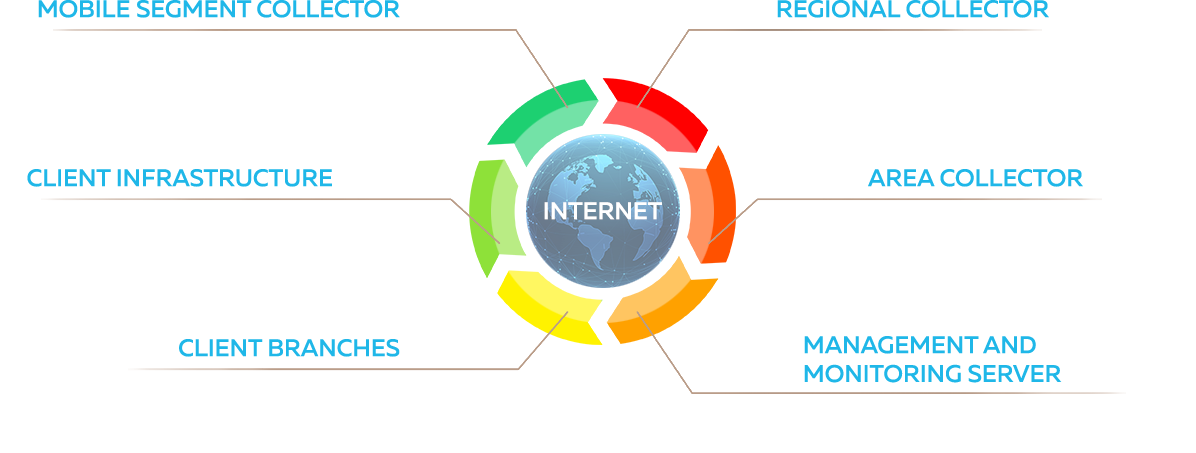
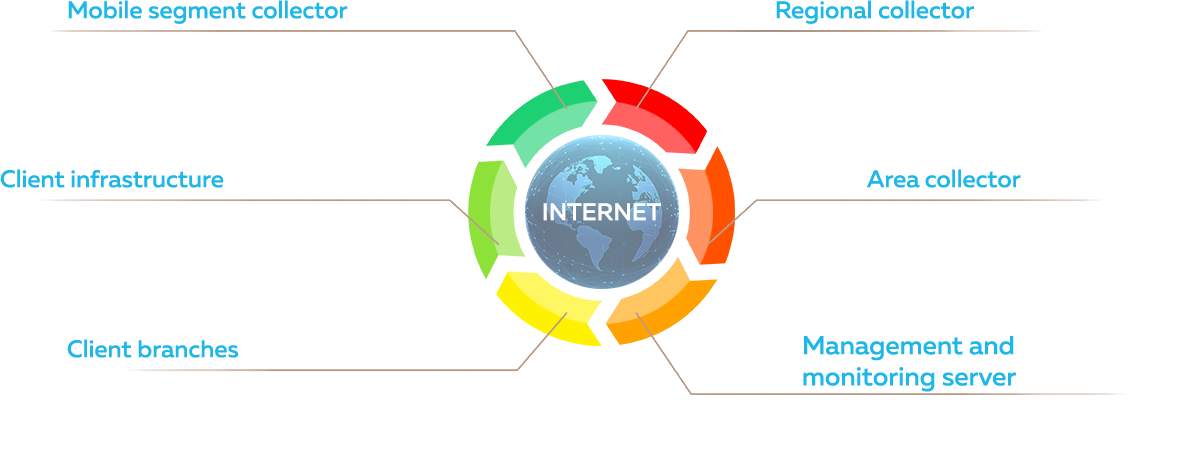
Additions Part 1

diff --git a/index.html b/index.html
@@ -3,7 +3,7 @@
 
 <head>
 	<meta charset="UTF-8">
-	<meta property=”og:image” content=”/small-im.png” /> 
+	<meta property=”og:image” content=”./img/icons/logo.png” /> 
 	
 	<title>MSTP</title>
 	<link rel="stylesheet" href="bower/normalize.css/normalize.css">
@@ -101,7 +101,7 @@
 				<div class="w3-center w3-container w3-section w3-large w3-text-white w3-display-bottommiddle" style="width:100%">
 					<div class="slide-text-wrapper">
 						<div class="slide-text-1">MSTP</div>
-						<div class="slide-text-2">Find a way out of the maze of network problems with MSTP technology</div>
+						<div class="slide-text-2">Solves all knows network problems simultaneously</div>
 						<a href="/" class="slide-button">More information</a>
 					</div>
 					<div class="w3-left w3-hover-text-khaki" onclick="plusDivs(-1)">&#10094;</div>
@@ -113,15 +113,15 @@
 	<div class="wrapp-download-pres">
 		<div class="top-line clearfix">
 			<div class="left">
-				<div class="download-pres-text-top ">Learn 12 unique advantages </div>
-				<div class="download-pres-text-bottom">for your business</div>
+				<div class="download-pres-text-top ">2018 Guide to WAN Architecture and Design,</div>
+				<div class="download-pres-text-bottom">Applying SDN and NFV at the WAN Edge</div>
 			</div>
 			<a href="/" class="download-pres-button right">Download presentation</a>
 		</div>
 	</div>
 	<header class="black-theme ta-center">
 		<div class="top-line pt50 pb50">
-			<div class="info-1-text1">Client problems solved with</div>
+			<div class="info-1-text1">CLIENT PROBLEMS SOLVED WITH</div>
 			<div class="info-1-text2">MSTP</div>
 			<menu>
 				<li class="info-1-menu-item">
@@ -201,8 +201,8 @@
 	</header>
 	<div class="info-2">
 		<div class="top-line pt50">
-			<!-- <div class="info-2-text1">MSTP</div> -->
-			<div class="info-2-text2">Benefints and functionality</div>
+			<div class="info-2-text1">MSTP</div>
+			<div class="info-2-text2">BENEFITS AND FUNCTIONALITY</div>
 			<div class="wrapp-info2-blocks">
 				<div class="info2-block1">
 					<div class="info2-block-text1">TUNNELING</div>
@@ -244,8 +244,8 @@
 	<div class="black-theme ta-center">
 		<div class="top-line pt50">
 			<div class="wrapp-info-3-text">
-				<!-- <div class="info-3-text1">MSTP</div> -->
-				<span class="info-3-text2">Unique Тесhnology Points</span>
+				<div class="info-3-text1">MSTP</div>
+				<span class="info-3-text2">UNIQUE POINTS</span>
 			</div>
 			<menu>
 				<li class="info-1-menu-item">
@@ -256,7 +256,7 @@
 						Performance
 					</span>
 					<span class="info-3-item-text-bottom">
-						Works on kernel mode and provide mode performa
+						MSTP works on kernel mode and provide mode performa
 					</span>
 				</li>
 				<li class="info-1-menu-item">
@@ -267,7 +267,7 @@
 						Summation
 					</span>
 					<span class="info-3-item-text-bottom">
-						Sums up bandwidth subchanels
+						Possibility for bandwidth subchannel summation and/ /
 					</span>
 				</li>
 				<li class="info-1-menu-item-right">
@@ -278,7 +278,7 @@
 						UDP / ICMP tunneling
 					</span>
 					<span class="info-3-item-text-bottom">
-						Works with UDP and ICMP transport acc
+						MSTP works with UDP and ICMP transport acc
 					</span>
 				</li>
 				<li class="info-1-menu-item">
@@ -289,7 +289,7 @@
 						Dynamic operation
 					</span>
 					<span class="info-3-item-text-bottom">
-						Provides possibility  for dynamic UDP port changes in case of “sticky sessions”
+						MSTP provides possibility for dynamic UDP port changes in case of “sticky sessions”
 					</span>
 				</li>
 				<li class="info-1-menu-item">
@@ -300,7 +300,7 @@
 						NAT support
 					</span>
 					<span class="info-3-item-text-bottom">
-						Works through all NAT types
+						MSTP works through all NAT types
 					</span>
 				</li>
 				<li class="info-1-menu-item-right">
@@ -311,7 +311,7 @@
 						DUP filtration
 					</span>
 					<span class="info-3-item-text-bottom">
-						Filter all duplicate packets
+						MSTP filter all duplicate packets
 					</span>
 				</li>
 				<li class="info-1-menu-item">
@@ -322,7 +322,7 @@
 						Encryption
 					</span>
 					<span class="info-3-item-text-bottom">
-						Supports all modern cryptography protocols and provides fast
+						MSTP provides fast proper encryption protocol and supports all modern cryptography protocols
 					</span>
 				</li>
 				<li class="info-1-menu-item">
@@ -333,7 +333,7 @@
 						Loop protection
 					</span>
 					<span class="info-3-item-text-bottom">
-						Provides effective loop protection mechanism
+						MSTP provides effective loop protection mechanism
 					</span>
 				</li>
 				<li class="info-1-menu-item-right">
@@ -344,7 +344,7 @@
 						Integrity
 					</span>
 					<span class="info-3-item-text-bottom">
-						Provides additional checksum integrity checking
+						MSTP provides additional checksum integrity checking
 					</span>
 				</li>
 
@@ -353,9 +353,9 @@
 	</div>
 	<div class="info-4">
 		<div class="wrapp-info4 pt50 pb50">
-			<span class="info-4-text1">Core</span>
+			<span class="info-4-text1">CORE</span>
 			<span class="info-4-text2">MSTP</span>
-			<span class="info-4-text1">Components</span>
+			<span class="info-4-text1">COMPONENTS</span>
 			<menu>
 				<li class="info-4-menu-item bg-1">
 					<span class="info-4-menu-text">
@@ -416,8 +416,8 @@
 		<div class="top-line">
 			<img class="left info-6-img" src="./img/client_module.png" alt="Client MSTP module based on widely used vendor neutral">
 			<div class="wrapper-info-6-text">
-				<span class="info-6-text-1">Client</span>
-				<span class="info-6-text-2">Module</span>
+				<span class="info-6-text-1">CLIENT</span>
+				<span class="info-6-text-2">MODULE</span>
 				<span class="info-6-text-3">
 					Client MSTP module based on widely used vendor neutral
 					<br> firmware. All MSTP component fully integrated into firmware –

diff --git a/app/css/main_v1.css b/app/css/main_v1.css
@@ -13,6 +13,9 @@
 .right{
 	float: right;
 }
+.hidden{
+	display: none;
+}
 body{
 	background:rgb(0,0,0);
 }
@@ -45,7 +48,7 @@ menu{
 .wrapp-top-menu{
 	width: 100%;
 	background-color: rgb(15,56,84);
-    padding: 45px 0;
+    padding: 40px 0;
 }
 .top-line{
 	margin: auto;
@@ -58,6 +61,7 @@ menu{
 .top-menu-item{
 	float: left;
 	margin-left: 25px;
+	margin-top: 10px;
 }
 .top-line-menu-item-society{
 	float: left;
@@ -97,7 +101,7 @@ menu{
 .wrapp-download-pres{
 	width: 100%;
 	background-color: rgb(31,162,204);
-    padding: 55px 0;
+    padding: 15px 0;
 }
 .download-pres-text-top{
 	font-family: 'mullerthin';
@@ -110,6 +114,7 @@ menu{
 	font-size: 22pt;
 }
 .download-pres-button{
+	margin-top: 15px;
 	text-decoration: none;
     color: rgb(255,255,255);
     padding: 10px 50px;
@@ -117,11 +122,10 @@ menu{
     font-size: 14pt;
 	position: relative;
 	border-radius: 7px;
-	background-color: rgb(15,56,84);
-	border-width: 0;
+	border-color: rgb(15,56,84);
+	border-width: 3px;
 	border-style: solid;
-	width: 200px;
-	text-align: center;
+	background-color: rgb(15,56,84)
 }
 .slide-text-wrapper{
 	width: 300px;
@@ -130,6 +134,7 @@ menu{
 	bottom: 30px;
 }
 .slide-text-1{
+	display: none;
 	font-family: "mullerbold";
 	font-size: 58pt;
 	color: rgb(31,162,204);
@@ -413,7 +418,7 @@ menu{
 	display: block;
 	font-family: "muller_regularregular";
     font-size: 24pt;
-	color: rgb(255,255,255);
+	color: rgb(186,157,137);
 }
 .info-5-img{
 	width: 100%;
